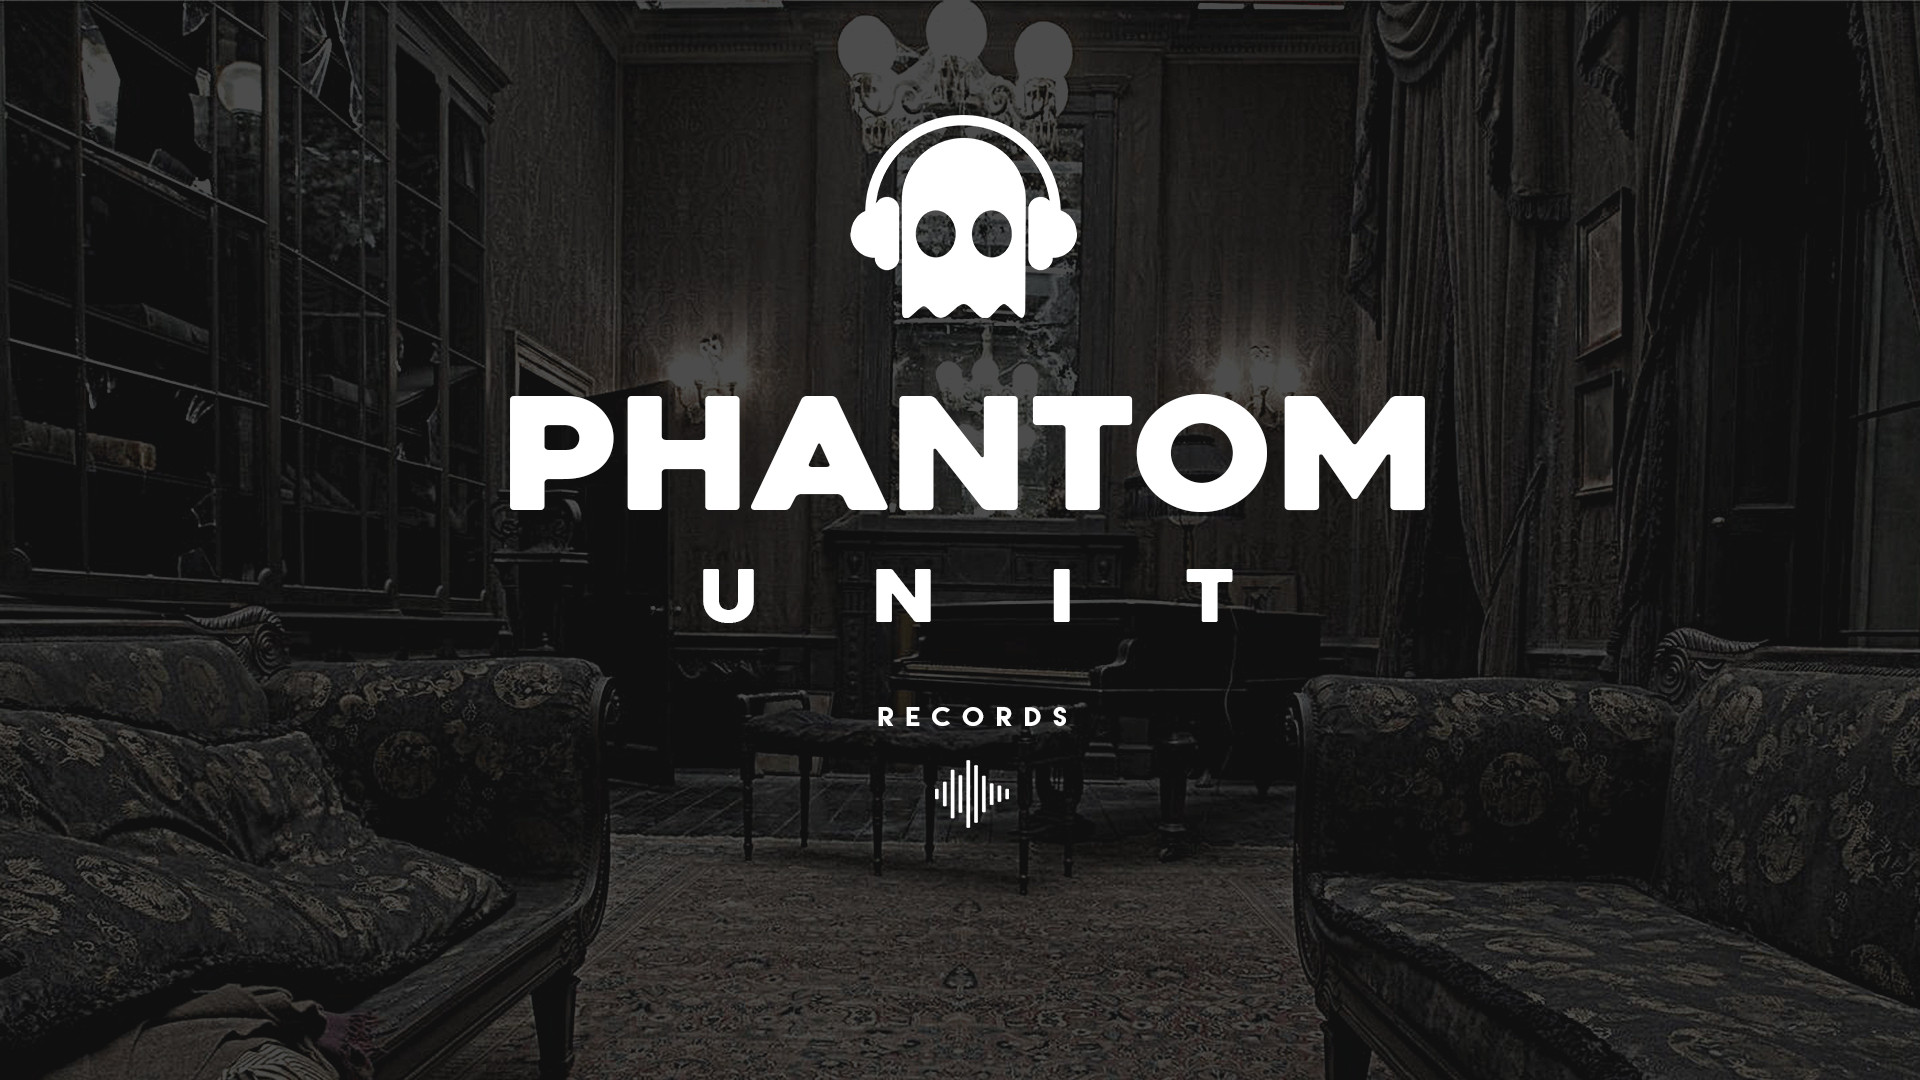
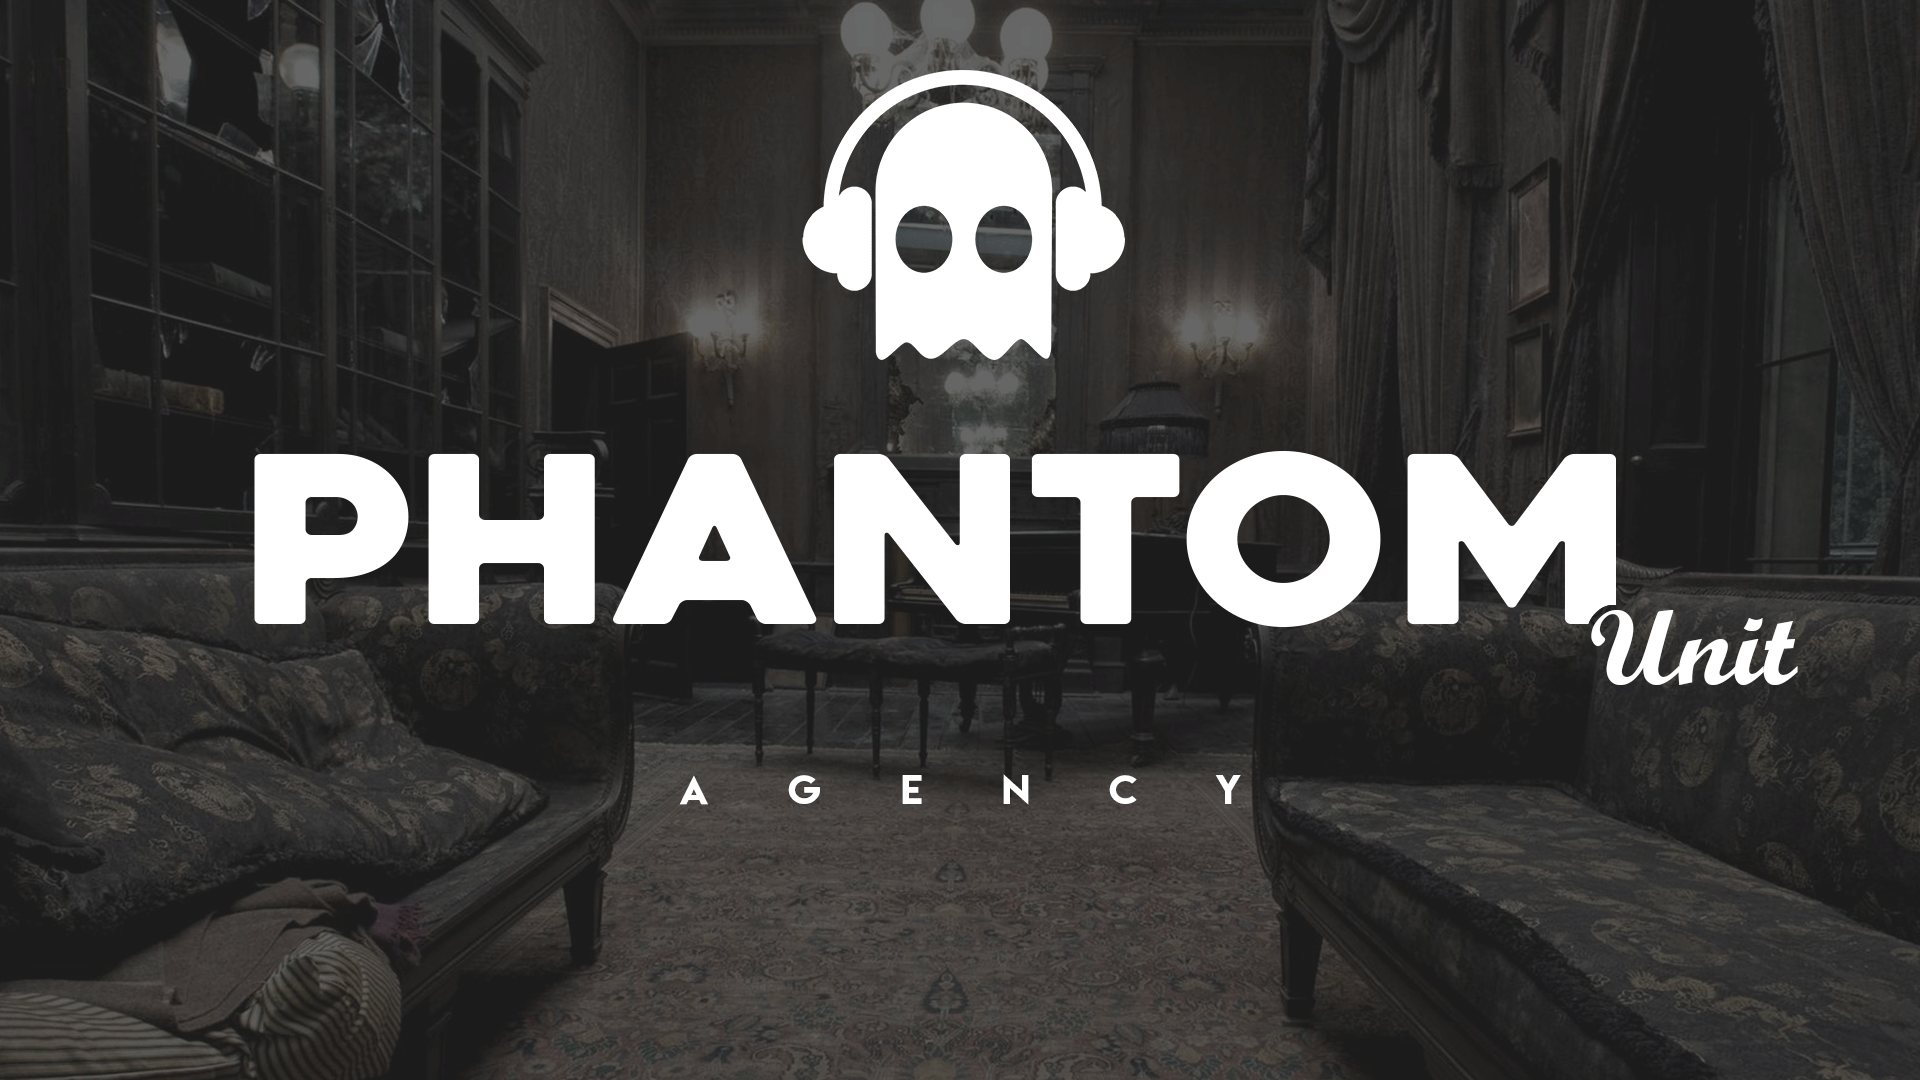
Alteração releases, nucleo e carrosel.

diff --git a/index.html b/index.html
@@ -132,11 +132,13 @@
         <div class="container">
             <div class="row">
                 <div class="col-lg-12 text-center">
-                    <h2 class="section-heading">Núcleo Phantom Unit</h2>
+                    <h2 class="section-heading">Phantom Unit</h2>
                     <h3 class="section-subheading text-muted"></h3>
-                        <p class="texto">A Phantom Unit Records é uma booking de dj's e um selo para produtores de música eletrônica que atua,principalmente, no sul do Brasil.</p>
-                        <p class="texto"> O label iniciou em 2013 com objetivo de unir os artistas para trocar experiências e buscar evolução profissional. Com a expansão do núcleo, surgiu a necessidade de organização de uma gravadora para profissionalizar e aumentar a visibilidade dos membros.</p>
-                        <p  class="texto"> Hoje contamos com um booking de 12 artistas de Psy Trance, Progressive Trance, Minimal, Techno, Deep House e DubStep, localizados em núcleos nas cidades de Porto Alegre, Santa Maria, Florianópolis e Rio de Janeiro. Nossa missão é ajudar no desenvolvimento dos artistas e buscar oportunidades profissionais para os mesmos, tendo como valores o profissionalismo, a qualidade, a inovação e a união.</p>
+                        <p class="texto">A Phantom Unit é uma agencia de dj's e produtores de música eletrônica que atua, principalmente, no sul do Brasil.
+
+O label iniciou em 2013 com objetivo de unir os artistas para trocar experiências e buscar evolução profissional. Com a expansão do núcleo, surgiu a necessidade da organização de uma agencia para profissionalizar e gerar visibilidade para os membros.
+
+Hoje contamos com um booking de 13 artistas de Psy Trance, Progressive Trance, Minimal, Techno, Deep House e DubStep, localizados em núcleos nas cidades de Porto Alegre, Santa Maria, Florianópolis e Rio de Janeiro. Nossa missão é ajudar no desenvolvimento dos artistas e buscar oportunidades profissionais para os mesmos, tendo como valores o profissionalismo, a qualidade, a inovação e a união.</p>
                 </div>
             </div>
         </div>
@@ -152,6 +154,8 @@
                 </div>
             </div>
             <div class="row">
+
+            
 
             <div class="col-sm-2">
                     <div class="team-member">
@@ -332,10 +336,24 @@ Decidiu criar o projeto mesclando o que há de novo com o mais “old school” 
                         </ul>
                     </div>
                 </div>
+                <div class="col-sm-2">
+                    <div class="team-member">
+                        <img src="img/team/Cassel.jpg" class="img-responsive img-circle tela color-tooltip" alt="" data-toggle="tooltip" title="">
+                        <h4>Cassel</h4>
+                        <p class="text-muted">Minimal</p>
+                        <ul class="list-inline social-buttons">
+                            
+                            <li><a href="#"><i class="fa fa-facebook"></i></a>
+                            </li>
+                            <li><a href="#"><i class="fa fa-soundcloud"></i></a>
+                            </li>
+                        </ul>
+                    </div>
+                </div>
                     </div>
             <div class="row">
                 <div class="col-lg-8 col-lg-offset-2 text-center">
-                    <p class="large text-muted">Entre em contato e descubra as vantagens de trabalhar com a Phantom Unit - Agency Booking</p>
+                    <p class="large text-muted">Entre em contato e descubra as vantagens que temos para lhe oferecer.</p>
                 </div>
             </div>
         </div>
